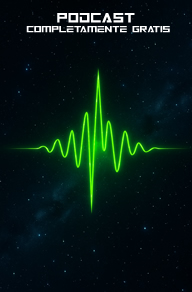
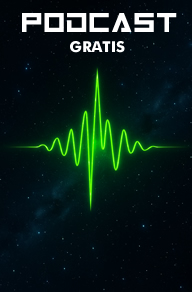
Cambio img y orden

diff --git a/index.html b/index.html
@@ -117,23 +117,26 @@
 <!--        <h2>La Tierra Perdida</h2>-->
         <p><span class="typed" data-typed-items="Explora el universo, Tres formas de entrar en la saga, Tu viaje empieza aquí"></span></p>
         <p class="vinetas">
+
         <div class="cards-container">
-          <div class="card novela">
-            <h3>Inicio del universo</h3>
-            <a target="_blank" href="#" data-prod="novela" class="producto-enlace">📖 Amazon</a>
-          </div>
 
-          <div class="card hq">
-            <h3>Puerta al universo</h3>
-            <a  href="#obras">✨ Leer </a>
-          </div>
-
-          <div class="card podcast">
-            <h3>Voz del universo</h3>
-            <a href="#" onclick="openModal()">🎧 Escuchar</a>
-          </div>
+        <div class="card podcast" onclick="openModal()">
+          <h3>Voz del universo</h3>
+          <a href="#" onclick="openModal()">🎧 Escuchar</a>
         </div>
 
+        <div class="card hq">
+          <h3>Puerta al universo</h3>
+          <a  href="#obras">✨ Leer </a>
+        </div>
+
+        <div class="card novela">
+            <h3>Inicio del universo</h3>
+            <a target="_blank" href="#" data-prod="novela" class="producto-enlace">📖 Amazon</a>
+        </div>
+
+
+        </div>
       </div>
     </section>
 
